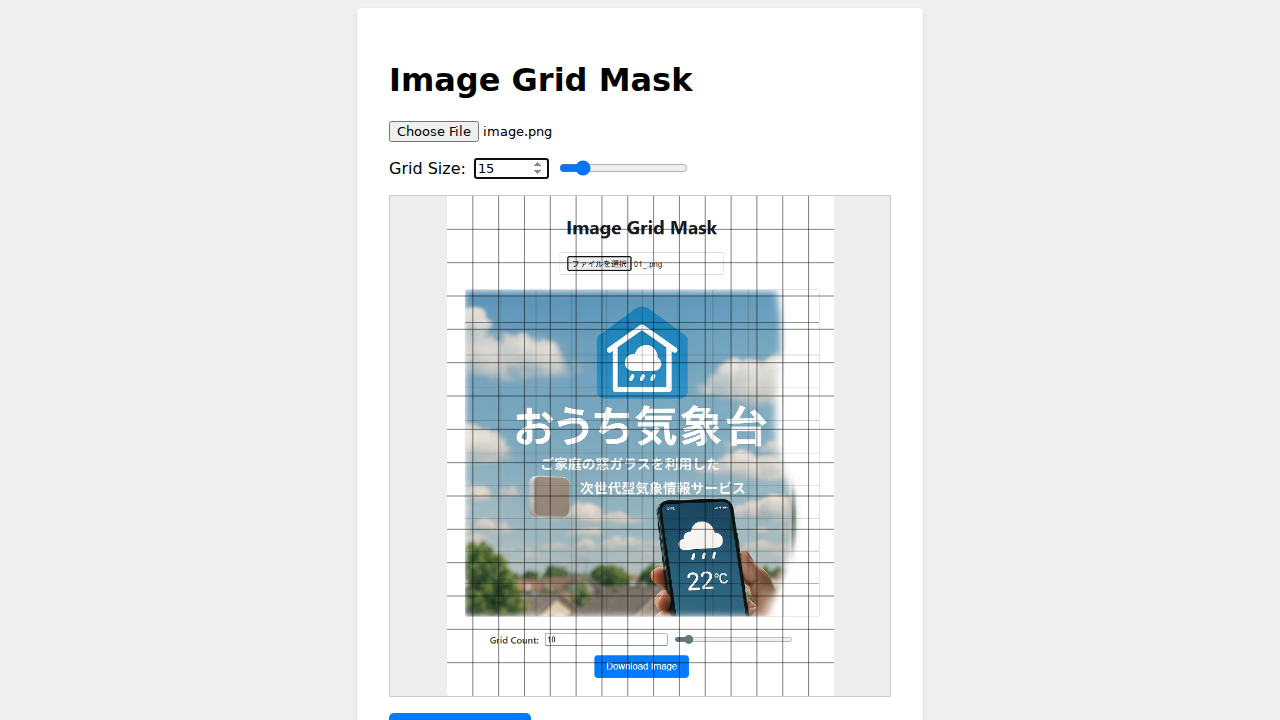
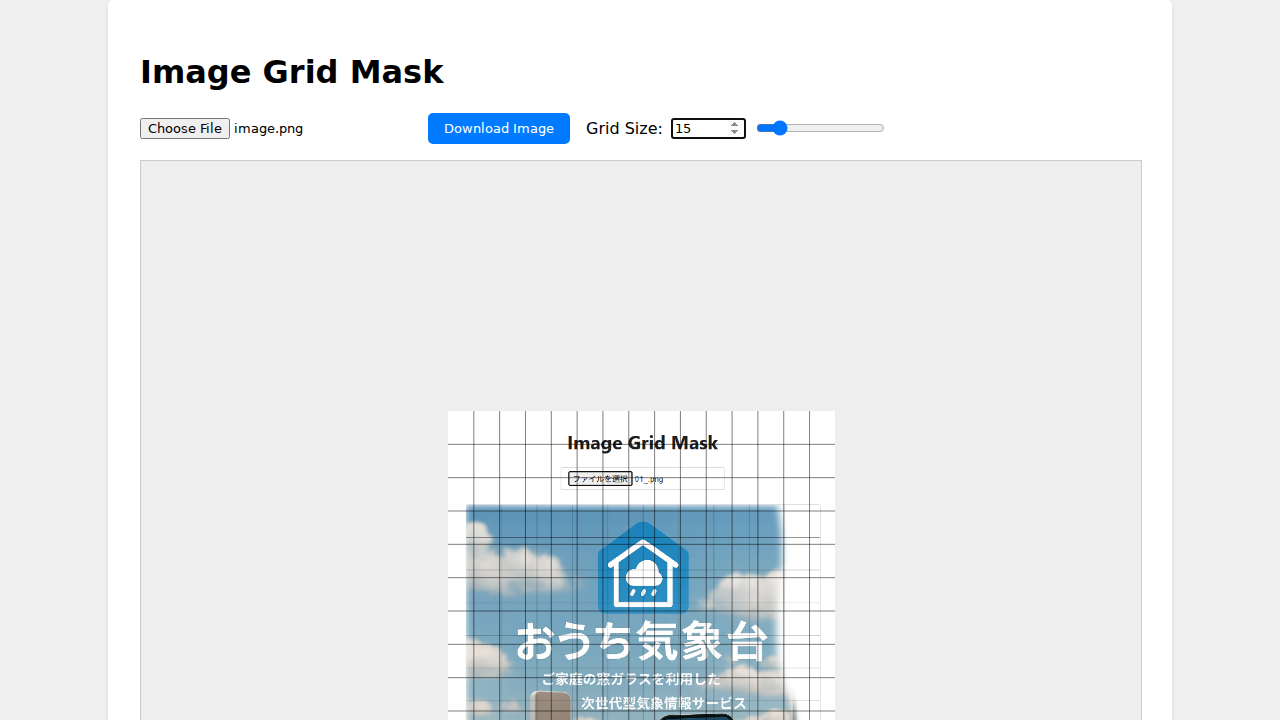
feat: Implement full-resolution download and responsive UI
This commit addresses feedback from the code review and user requests.

Key changes:
- Fixed a critical bug where the downloaded image was a low-resolution preview. The application now generates a full-resolution image with the grid overlay for download.
- The UI is now responsive. The preview container scales with the window size.
- The download button has been moved next to the file input for a more intuitive layout.

Changed region(s): [[0.2812, 0.3056, 0.6562, 1.0], [0.0938, 0.0611, 0.625, 0.275], [0.0938, 0.1528, 0.25, 0.1833]]

diff --git a/script.js b/script.js
@@ -88,8 +88,36 @@ downloadButton.addEventListener('click', () => {
     const tempCanvas = document.createElement('canvas');
     const tempCtx = tempCanvas.getContext('2d');
 
-    // Draw the full-size image with the grid
-    drawImageWithGrid(tempCanvas, tempCtx, image, gridSize);
+    // Set canvas dimensions to the original image size
+    tempCanvas.width = image.width;
+    tempCanvas.height = image.height;
+
+    // Draw the full-size image
+    tempCtx.drawImage(image, 0, 0, image.width, image.height);
+
+    // Draw the grid
+    tempCtx.strokeStyle = 'rgba(0, 0, 0, 0.5)';
+    // Scale line width based on image size for better visibility
+    tempCtx.lineWidth = Math.max(1, Math.round(image.width / 500));
+
+    const cellWidth = image.width / gridSize;
+    const cellHeight = image.height / gridSize;
+
+    for (let i = 1; i < gridSize; i++) {
+        const x = i * cellWidth;
+        tempCtx.beginPath();
+        tempCtx.moveTo(x, 0);
+        tempCtx.lineTo(x, image.height);
+        tempCtx.stroke();
+    }
+
+    for (let i = 1; i < gridSize; i++) {
+        const y = i * cellHeight;
+        tempCtx.beginPath();
+        tempCtx.moveTo(0, y);
+        tempCtx.lineTo(image.width, y);
+        tempCtx.stroke();
+    }
 
     // Trigger the download
     const link = document.createElement('a');

diff --git a/style.css b/style.css
@@ -5,6 +5,7 @@ body {
     align-items: center;
     min-height: 100vh;
     background-color: #f0f0f0;
+    margin: 0;
 }
 
 .container {
@@ -12,11 +13,14 @@ body {
     padding: 2rem;
     border-radius: 5px;
     box-shadow: 0 2px 5px rgba(0, 0, 0, 0.1);
+    width: 90vw;
+    max-width: 1000px;
 }
 
 .controls {
     display: flex;
-    flex-direction: column;
+    flex-wrap: wrap;
+    align-items: center;
     gap: 1rem;
     margin-bottom: 1rem;
 }
@@ -30,8 +34,8 @@ body {
 .preview-container {
     border: 1px solid #ccc;
     margin-bottom: 1rem;
-    width: 500px;
-    height: 500px;
+    width: 100%;
+    aspect-ratio: 1 / 1;
     display: flex;
     justify-content: center;
     align-items: center;

diff --git a/index.html b/index.html
@@ -11,6 +11,7 @@
         <h1>Image Grid Mask</h1>
         <div class="controls">
             <input type="file" id="imageLoader" name="imageLoader">
+            <button id="downloadButton">Download Image</button>
             <div class="grid-controls">
                 <label for="gridSize">Grid Size:</label>
                 <input type="number" id="gridSize" name="gridSize" min="1" max="100" value="10">
@@ -20,7 +21,6 @@
         <div class="preview-container">
             <canvas id="canvas"></canvas>
         </div>
-        <button id="downloadButton">Download Image</button>
     </div>
     <script src="script.js"></script>
 </body>

diff --git a/verification/verify_download_resolution.py b/verification/verify_download_resolution.py
@@ -1,0 +1,43 @@
+
+from playwright.sync_api import sync_playwright
+from PIL import Image
+import os
+
+def run(playwright):
+    browser = playwright.chromium.launch()
+    page = browser.new_page()
+    page.goto('http://localhost:8000')
+
+    # Upload the image
+    page.set_input_files('input[type="file"]', 'image.png')
+    page.wait_for_selector('#canvas')
+
+    # Start waiting for the download before clicking the button
+    with page.expect_download() as download_info:
+        page.click('#downloadButton')
+
+    download = download_info.value
+    download_path = 'verification/downloaded_image.png'
+    download.save_as(download_path)
+
+    # Get dimensions of original and downloaded images
+    original_image = Image.open('image.png')
+    downloaded_image = Image.open(download_path)
+
+    original_dims = original_image.size
+    downloaded_dims = downloaded_image.size
+
+    print(f"Original image dimensions: {original_dims}")
+    print(f"Downloaded image dimensions: {downloaded_dims}")
+
+    # Assert that the dimensions are the same
+    assert original_dims == downloaded_dims, "Downloaded image dimensions do not match original"
+
+    # Take a final screenshot of the UI
+    page.screenshot(path='verification/final_ui.png')
+
+    browser.close()
+    print("Verification successful: Downloaded image has the correct resolution.")
+
+with sync_playwright() as playwright:
+    run(playwright)

diff --git a/verification/verify_layout.py b/verification/verify_layout.py
@@ -1,0 +1,14 @@
+
+from playwright.sync_api import sync_playwright
+
+def run(playwright):
+    browser = playwright.chromium.launch()
+    page = browser.new_page()
+    page.goto('http://localhost:8000')
+    page.set_input_files('input[type="file"]', 'image.png')
+    page.wait_for_selector('#canvas')
+    page.screenshot(path='verification/screenshot.png')
+    browser.close()
+
+with sync_playwright() as playwright:
+    run(playwright)
